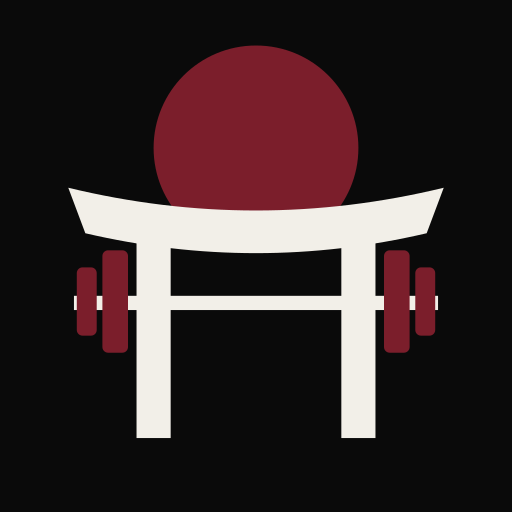
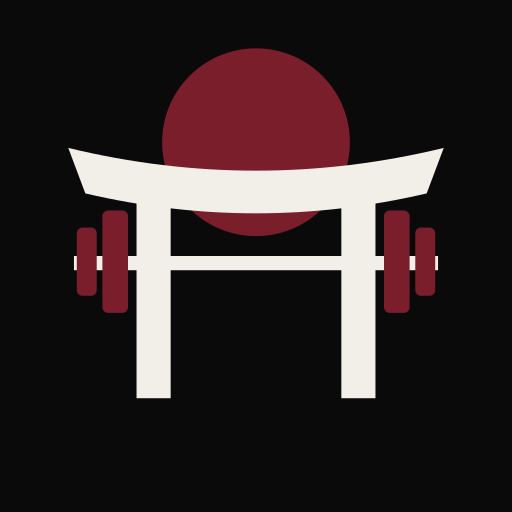
Icono: torii más arriba y sol más discreto
Claude-Session: https://claude.ai/code/session_019VSDtBq33ndC1gQTs28wpb

diff --git a/public/index.html b/public/index.html
@@ -11,16 +11,16 @@
 <link rel="manifest" href="/manifest.webmanifest">
 <link rel="apple-touch-icon" href="/icon-180.png">
 <link rel="icon" type="image/png" href="/icon-192.png">
-<link rel="stylesheet" href="/style.css?v=zzzzzzzzzzzzzzzzzzzzzzzzzzzzzzzzzzzzzzzzzzzzzzzzzzzzzzzzzzzzzzzzzzzzzzz">
+<link rel="stylesheet" href="/style.css?v=zzzzzzzzzzzzzzzzzzzzzzzzzzzzzzzzzzzzzzzzzzzzzzzzzzzzzzzzzzzzzzzzzzzzzzzz">
 <title>Gym</title>
 </head>
 <body>
 <main id="view"></main>
 <div id="restbar"></div>
 <nav id="tabs"></nav>
-<script src="/routines.js?v=zzzzzzzzzzzzzzzzzzzzzzzzzzzzzzzzzzzzzzzzzzzzzzzzzzzzzzzzzzzzzzzzzzzzzzz"></script>
-<script src="/diet.js?v=zzzzzzzzzzzzzzzzzzzzzzzzzzzzzzzzzzzzzzzzzzzzzzzzzzzzzzzzzzzzzzzzzzzzzzz"></script>
-<script src="/exinfo.js?v=zzzzzzzzzzzzzzzzzzzzzzzzzzzzzzzzzzzzzzzzzzzzzzzzzzzzzzzzzzzzzzzzzzzzzzz"></script>
-<script src="/app.js?v=zzzzzzzzzzzzzzzzzzzzzzzzzzzzzzzzzzzzzzzzzzzzzzzzzzzzzzzzzzzzzzzzzzzzzzz"></script>
+<script src="/routines.js?v=zzzzzzzzzzzzzzzzzzzzzzzzzzzzzzzzzzzzzzzzzzzzzzzzzzzzzzzzzzzzzzzzzzzzzzzz"></script>
+<script src="/diet.js?v=zzzzzzzzzzzzzzzzzzzzzzzzzzzzzzzzzzzzzzzzzzzzzzzzzzzzzzzzzzzzzzzzzzzzzzzz"></script>
+<script src="/exinfo.js?v=zzzzzzzzzzzzzzzzzzzzzzzzzzzzzzzzzzzzzzzzzzzzzzzzzzzzzzzzzzzzzzzzzzzzzzzz"></script>
+<script src="/app.js?v=zzzzzzzzzzzzzzzzzzzzzzzzzzzzzzzzzzzzzzzzzzzzzzzzzzzzzzzzzzzzzzzzzzzzzzzz"></script>
 </body>
 </html>

diff --git a/public/routines.js b/public/routines.js
@@ -2,7 +2,7 @@
 // cuando pides un cambio y la app lo recoge al abrirse.
 // Orden = semana de lunes a domingo. "cardio": bloques de cinta o carrera que se muestran en la sesión.
 // "warmup": nº de series de calentamiento (las primeras) incluidas en "sets".
-window.ROUTINES_VERSION = '2026-11-14f';
+window.ROUTINES_VERSION = '2026-11-14g';
 window.ROUTINES = [
   {
     id: 'd1',

diff --git a/public/sw.js b/public/sw.js
@@ -1,5 +1,5 @@
 // Service worker: primero red (para que los cambios se vean al reabrir), con copia local sin conexión.
-var CACHE = 'gym-v7';
+var CACHE = 'gym-v8';
 
 self.addEventListener('install', function () { self.skipWaiting(); });
 
